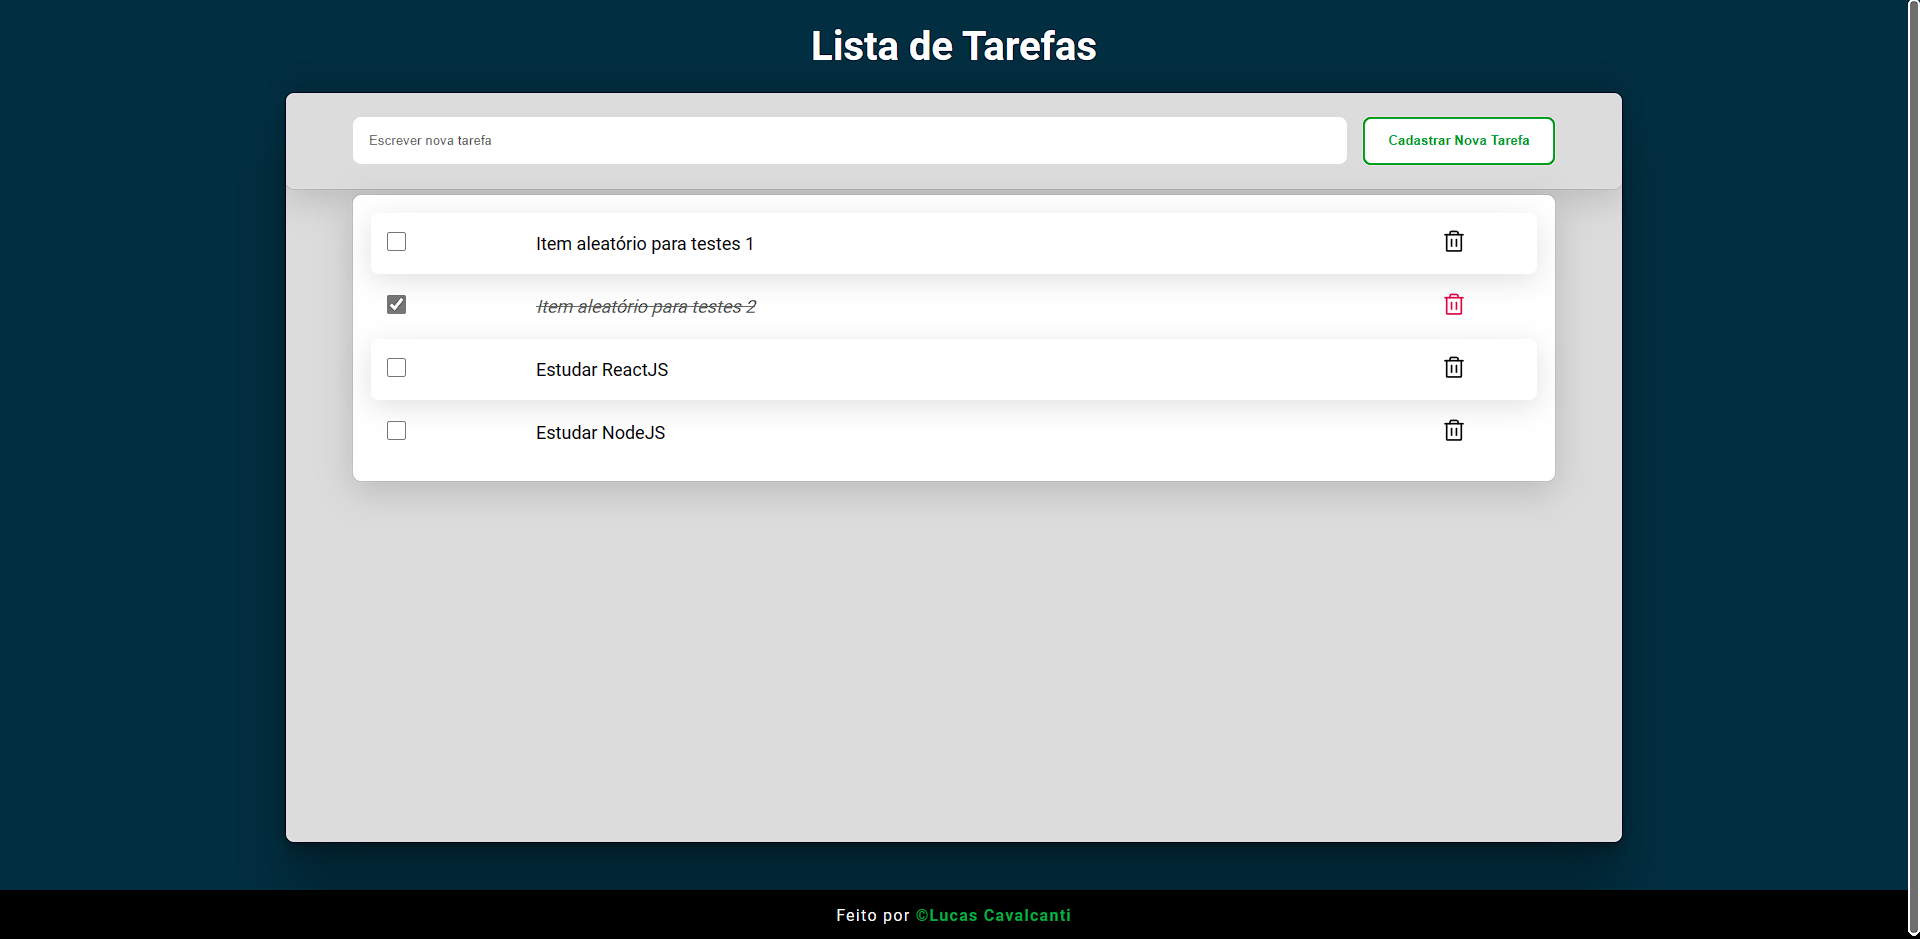
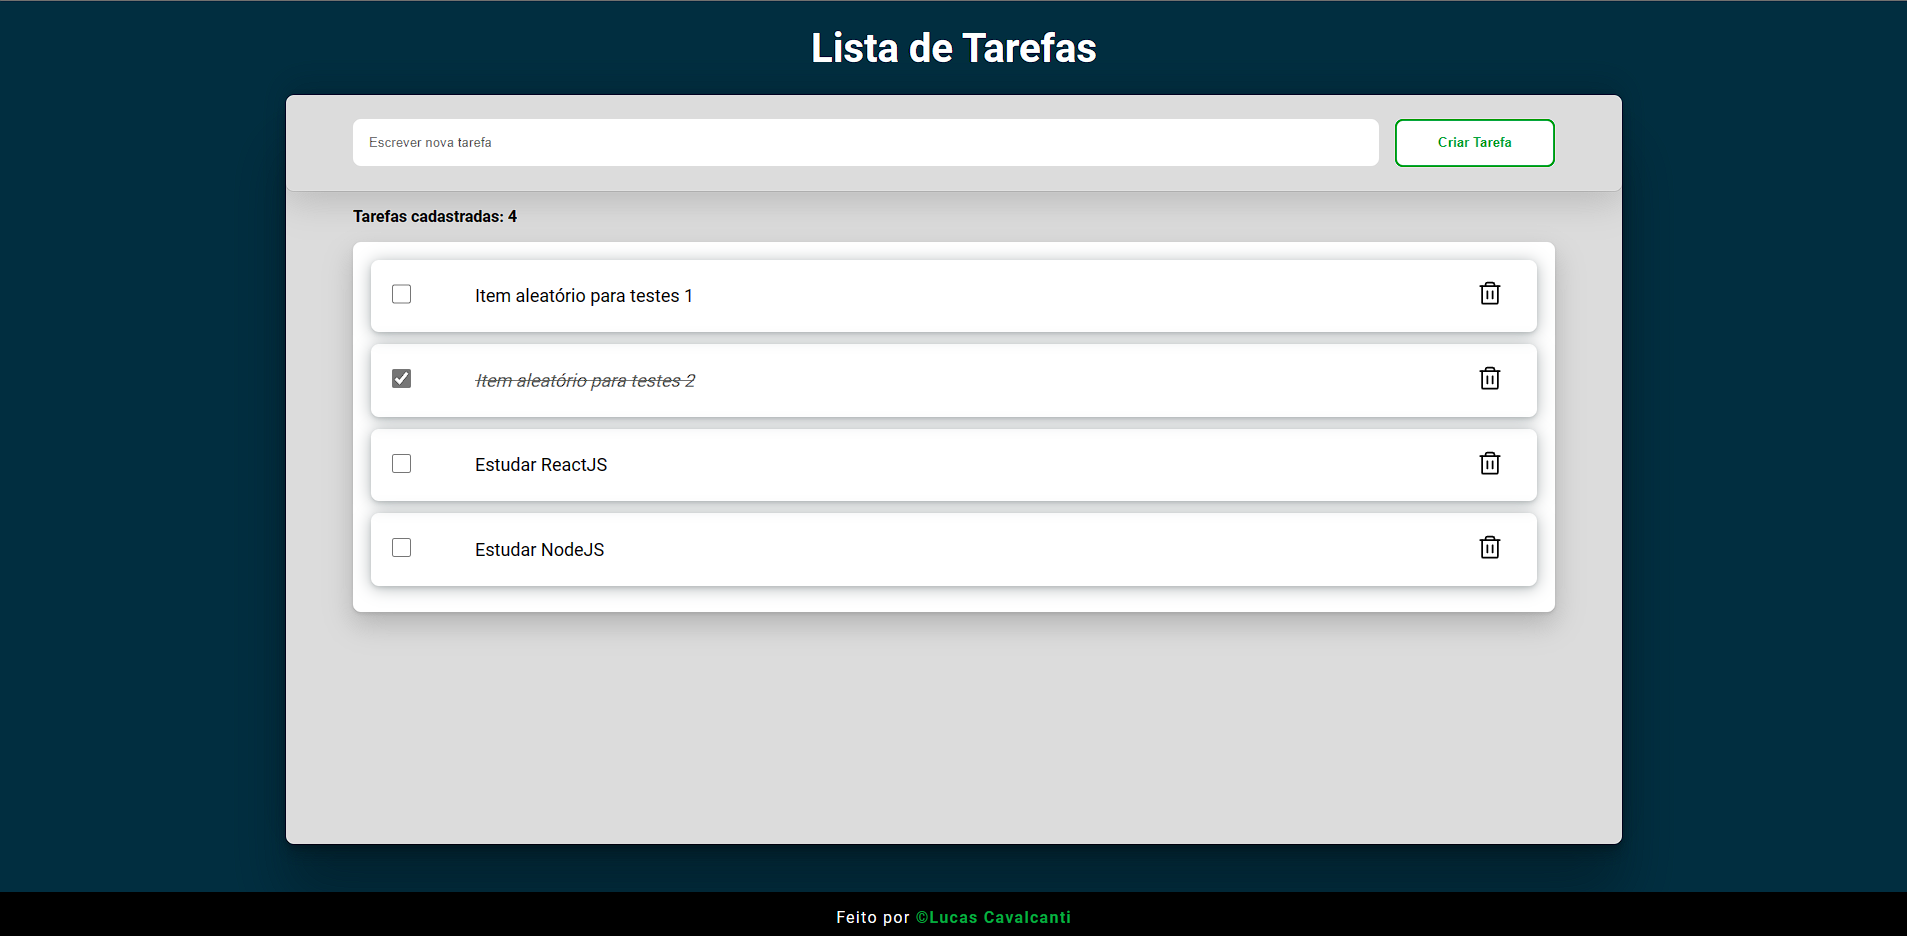
Changing the table structure and add the Modal without errors

Changed region(s): [[0.1547, 0.031, 0.8663, 0.8985], [0.0, 0.0, 1.0, 1.0]]

diff --git a/src/Components/Table.tsx b/src/Components/Table.tsx
@@ -16,12 +16,11 @@ export type Item = {
 export function Table(){
 
     const[list, setList] = useState<Item[]>([
-        { id: 1, content: "Item aleatório para testes 1", done: false},
-        { id: 2, content: "Item aleatório para testes 2", done: true},
-        { id: 3, content: "Estudar ReactJS", done: false},
-        { id: 4, content: "Estudar NodeJS", done: false},
+        { id: 0, content: "Item aleatório para testes 1", done: false},
+        { id: 1, content: "Item aleatório para testes 2", done: true},
+        { id: 2, content: "Estudar ReactJS", done: false},
+        { id: 3, content: "Estudar NodeJS", done: false},
     ]);
-
 
     const [inputItem, setInputItem] = useState('');
 
@@ -78,28 +77,23 @@ export function Table(){
                         <span>Tarefas cadastradas: {list.length}</span>
                     </div>
 
-                    <table className={styles.table}>                   
-                        <tbody>
+                    <div className={styles.table}>                                        
 
                             {list.length <= 0 && (
-                                <tr className={styles.empty}>
-                                    <td>
+                                <div className={styles.empty}>
                                         <ClipboardText size={32} />
                                         <p>Sem tarefas cadastradas</p>
-                                    </td>
-                                </tr>
+                                </div>
                             )}
                                 
                             {list.map((item)=>(
                                 <ListItem   key={item.id}
                                 task={item}
                                 onDeleteItem={onDeleteItem}
-                                />
-                            
-                                            
+                                />                                           
                             ))}
-                        </tbody>
-                    </table>
+                       
+                    </div>
                     
                 </div>
             </main>            

diff --git a/src/Components/ListItem.tsx b/src/Components/ListItem.tsx
@@ -31,29 +31,33 @@ export function ListItem({ task,onDeleteItem }: Props) {
 
     return (
         <>
-            <tr key={task.id}>
-                <td>  
-                    <input
-                        type="checkbox" 
-                        onChange={e => setIsChecked(e.target.checked)}
-                        checked={isChecked}
-                    /> 
-                </td>
+            <table className={styles.tableLine}>
+                <tbody>
+                    <tr>
+                        <td>  
+                            <input
+                                type="checkbox" 
+                                onChange={e => setIsChecked(e.target.checked)}
+                                checked={isChecked}
+                            /> 
+                        </td>
 
-                <td className={isChecked ? styles.secondDataFalse : styles.secondData}> 
-                    {task.content} 
-                </td>
+                        <td className={isChecked ? styles.secondDataFalse : styles.secondData}> 
+                            {task.content} 
+                        </td>
 
-                <td className={styles.buttons}>
+                        <td className={styles.buttons}>
 
-                    <button className={styles.trash} onClick={handleDeleteItem}>
-                        <Trash  size={28} alt="Apagar tarefa"/>
-                    </button>
+                            <button className={styles.trash} onClick={handleDeleteItem}>
+                                <Trash  size={28} alt="Apagar tarefa"/>
+                            </button>
 
-                </td>
+                        </td>
 
+                    </tr>
+                </tbody>
+            </table>
 
-            </tr>
             <Modal  isOpen={isOpen}
                     setCloseModal={handleOpenModal}
                     task={task}

diff --git a/src/Components/Modal.tsx b/src/Components/Modal.tsx
@@ -44,7 +44,7 @@ const MODAL_STYLE: object = {
 
 }
 
-export function Modal({ isOpen, setCloseModal  }: ModalContent, task: Props){
+export function Modal({ isOpen, setCloseModal  }: ModalContent){
 
     function handleCloseModal() {
         setCloseModal();
@@ -63,9 +63,12 @@ export function Modal({ isOpen, setCloseModal  }: ModalContent, task: Props){
 
                         <table className={styles.tableModal}>
                             <tbody>
-                                    <p>Tarefa ainda não concluída! Conclua-a para excluir.</p>
+                                    <tr>
+                                        <td>Tarefa ainda não concluída! Conclua-a para excluir.</td>
+                                    </tr>
                             </tbody>
                         </table>
+                        
                     </main>                    
 
                     <footer className={styles.footerModal}>

diff --git a/src/Components/Table.module.css b/src/Components/Table.module.css
@@ -116,30 +116,31 @@
     border-radius: 8px;
     padding: 1rem;
 
-    box-shadow: rgba(0, 0, 0, 0.16) 0px 10px 36px 0px, rgba(0, 0, 0, 0.06) 0px 0px 0px 1px;
-}
-
-.empty {
-    text-align: center;
-    font-size: 18px;
-
-    padding: 5rem;
-
-    color: var(--gray-500);
-    
+    box-shadow: rgba(0, 0, 0, 0.2) 0px 12px 28px 0px, rgba(0, 0, 0, 0.1) 0px 2px 4px 0px, rgba(255, 255, 255, 0.05) 0px 0px 0px 1px inset;
 }
 
 .table tbody tr {
     border-radius: 8px;
-
+    background-color: transparent;
+    
 }
 
 .table tbody tr:nth-child(odd) {
-    box-shadow: rgba(100, 100, 111, 0.2) 0px 7px 29px 0px;
+    box-shadow: rgba(14, 30, 37, 0.12) 0px 2px 4px 0px, rgba(14, 30, 37, 0.32) 0px 2px 16px 0px;
 }
 
-.table tr td{
-    padding: 1rem;
+.table tbody tr td{
+    padding: 1.3rem;
+    
+}
+
+.empty {
+    text-align: center;
+    font-size: 20px;
+
+    padding: 3rem;
+
+    color: var(--gray-500);
     
 }
 

diff --git a/src/Components/ListItem.module.css b/src/Components/ListItem.module.css
@@ -4,12 +4,16 @@ input[type=checkbox] {
 
 }
 
-input[type=checkbox]:checked {
-    background: var(--blue);
+.tableLine {
+    width: 100%;
+    border-radius: 8px;
+
+    margin-bottom: 0.5rem;
+    
 }
 
 .secondData {
-    width: 73%;
+    width: 85%;
     text-align: justify;
 
     font-size: 18px;
@@ -17,7 +21,7 @@ input[type=checkbox]:checked {
 }
 
 .secondDataFalse {
-    width: 73%;
+    width: 85%;
     text-align: justify;
     
     font-style: italic;

diff --git a/src/Components/Modal.module.css b/src/Components/Modal.module.css
@@ -52,9 +52,13 @@
     margin-top: 0.4rem;
     margin-bottom: 1rem;
     border-radius: 8px;
-    padding: 1rem;
+    padding: 0.5rem;
 
     box-shadow: rgba(0, 0, 0, 0.19) 0px 10px 20px, rgba(0, 0, 0, 0.23) 0px 6px 6px;
+}
+
+.tableModal tbody tr{
+    background: var(--white);
 }
 
 .footerModal {
